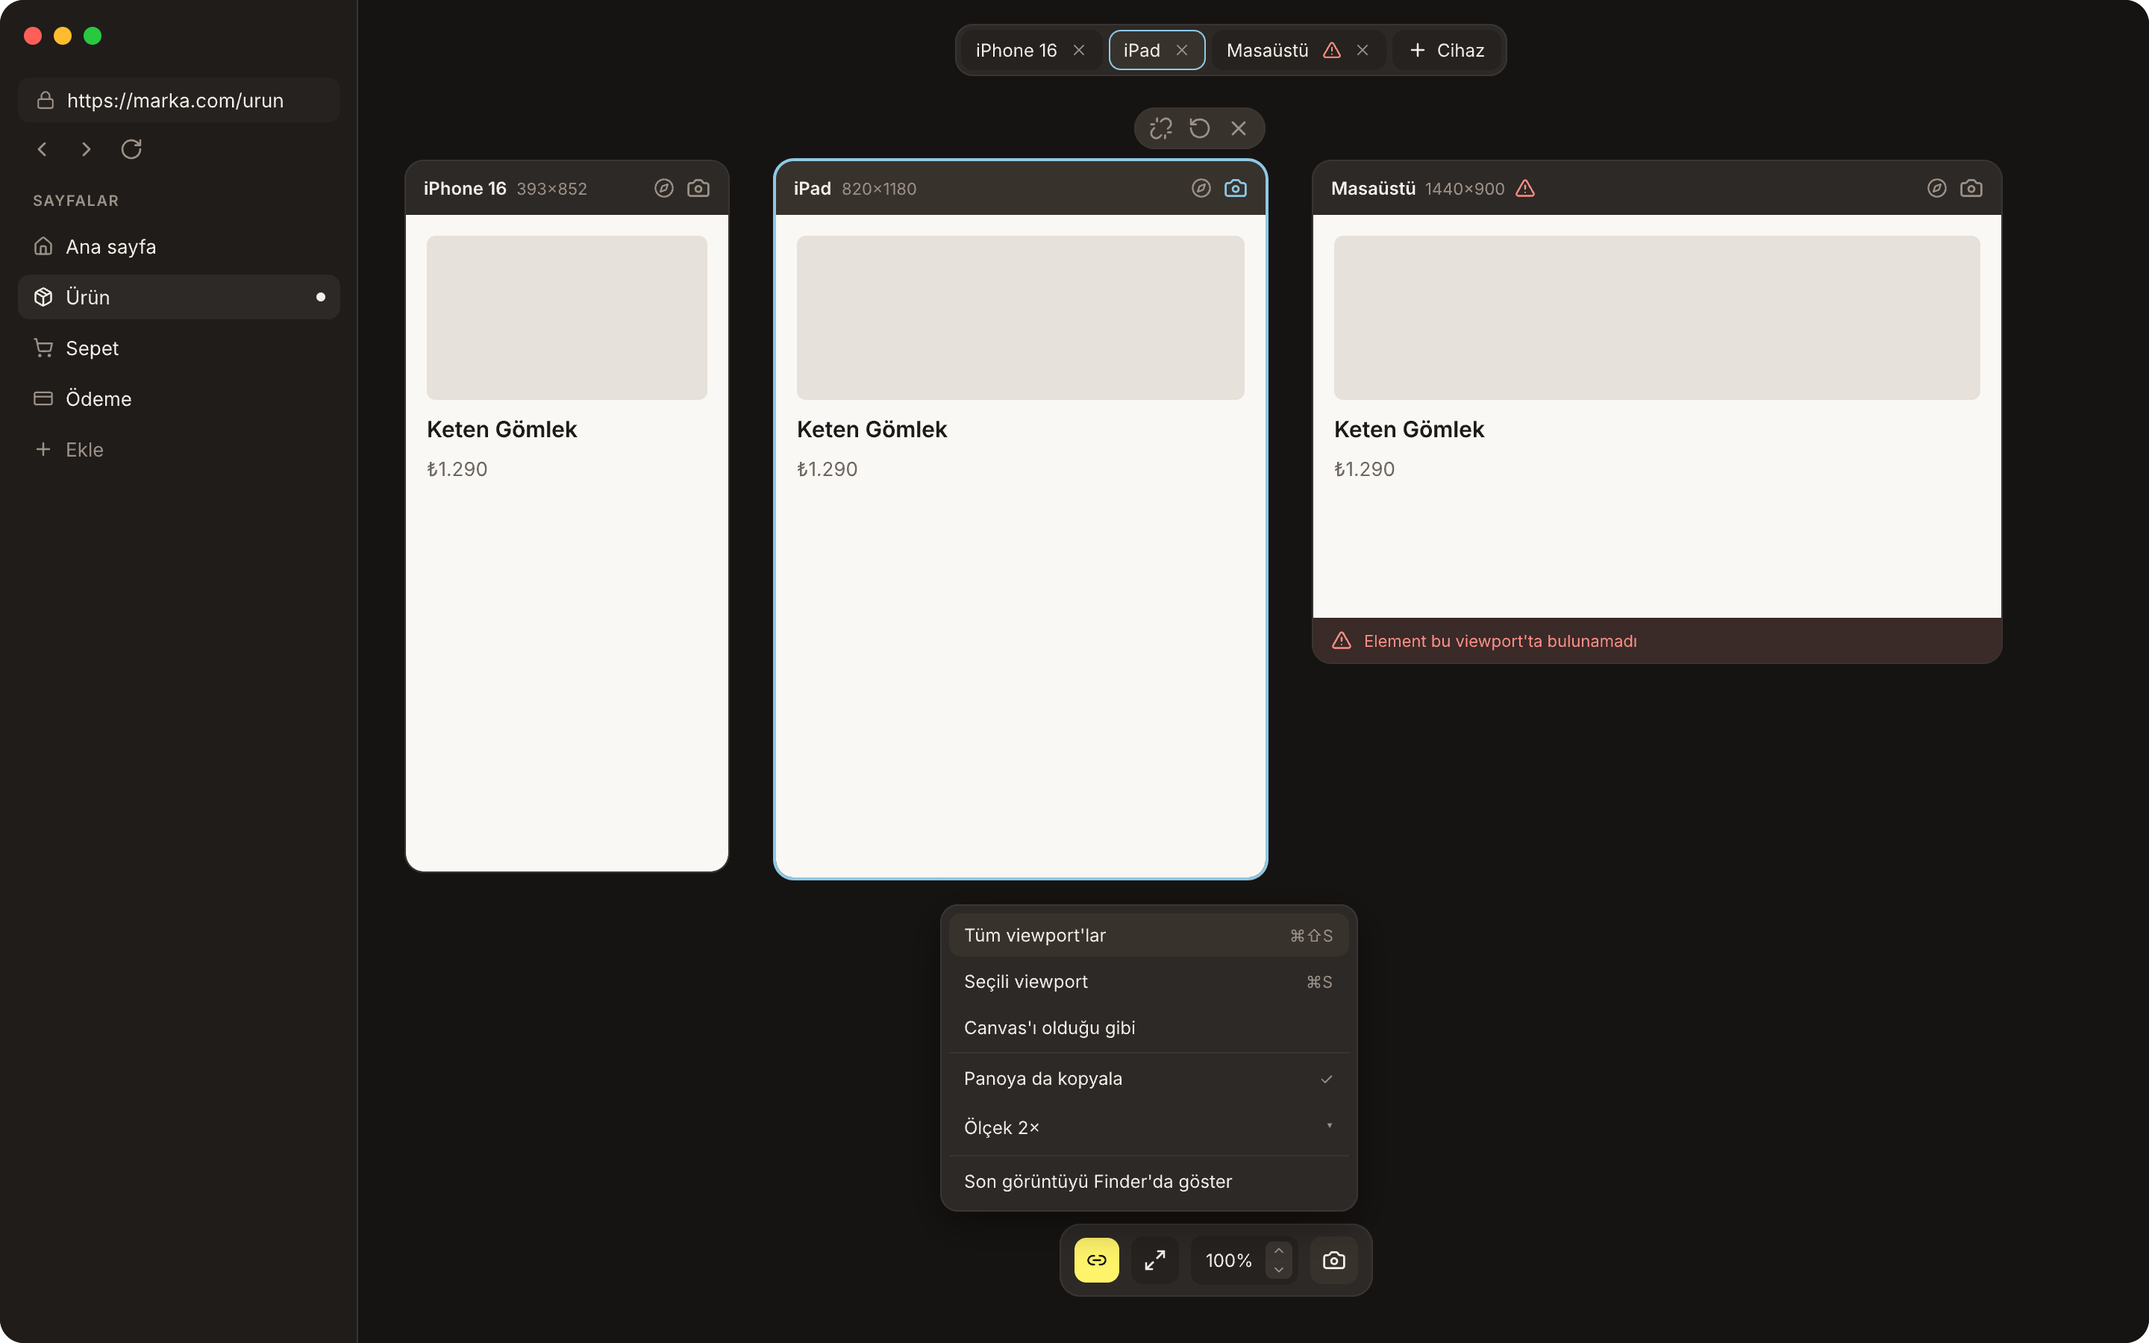
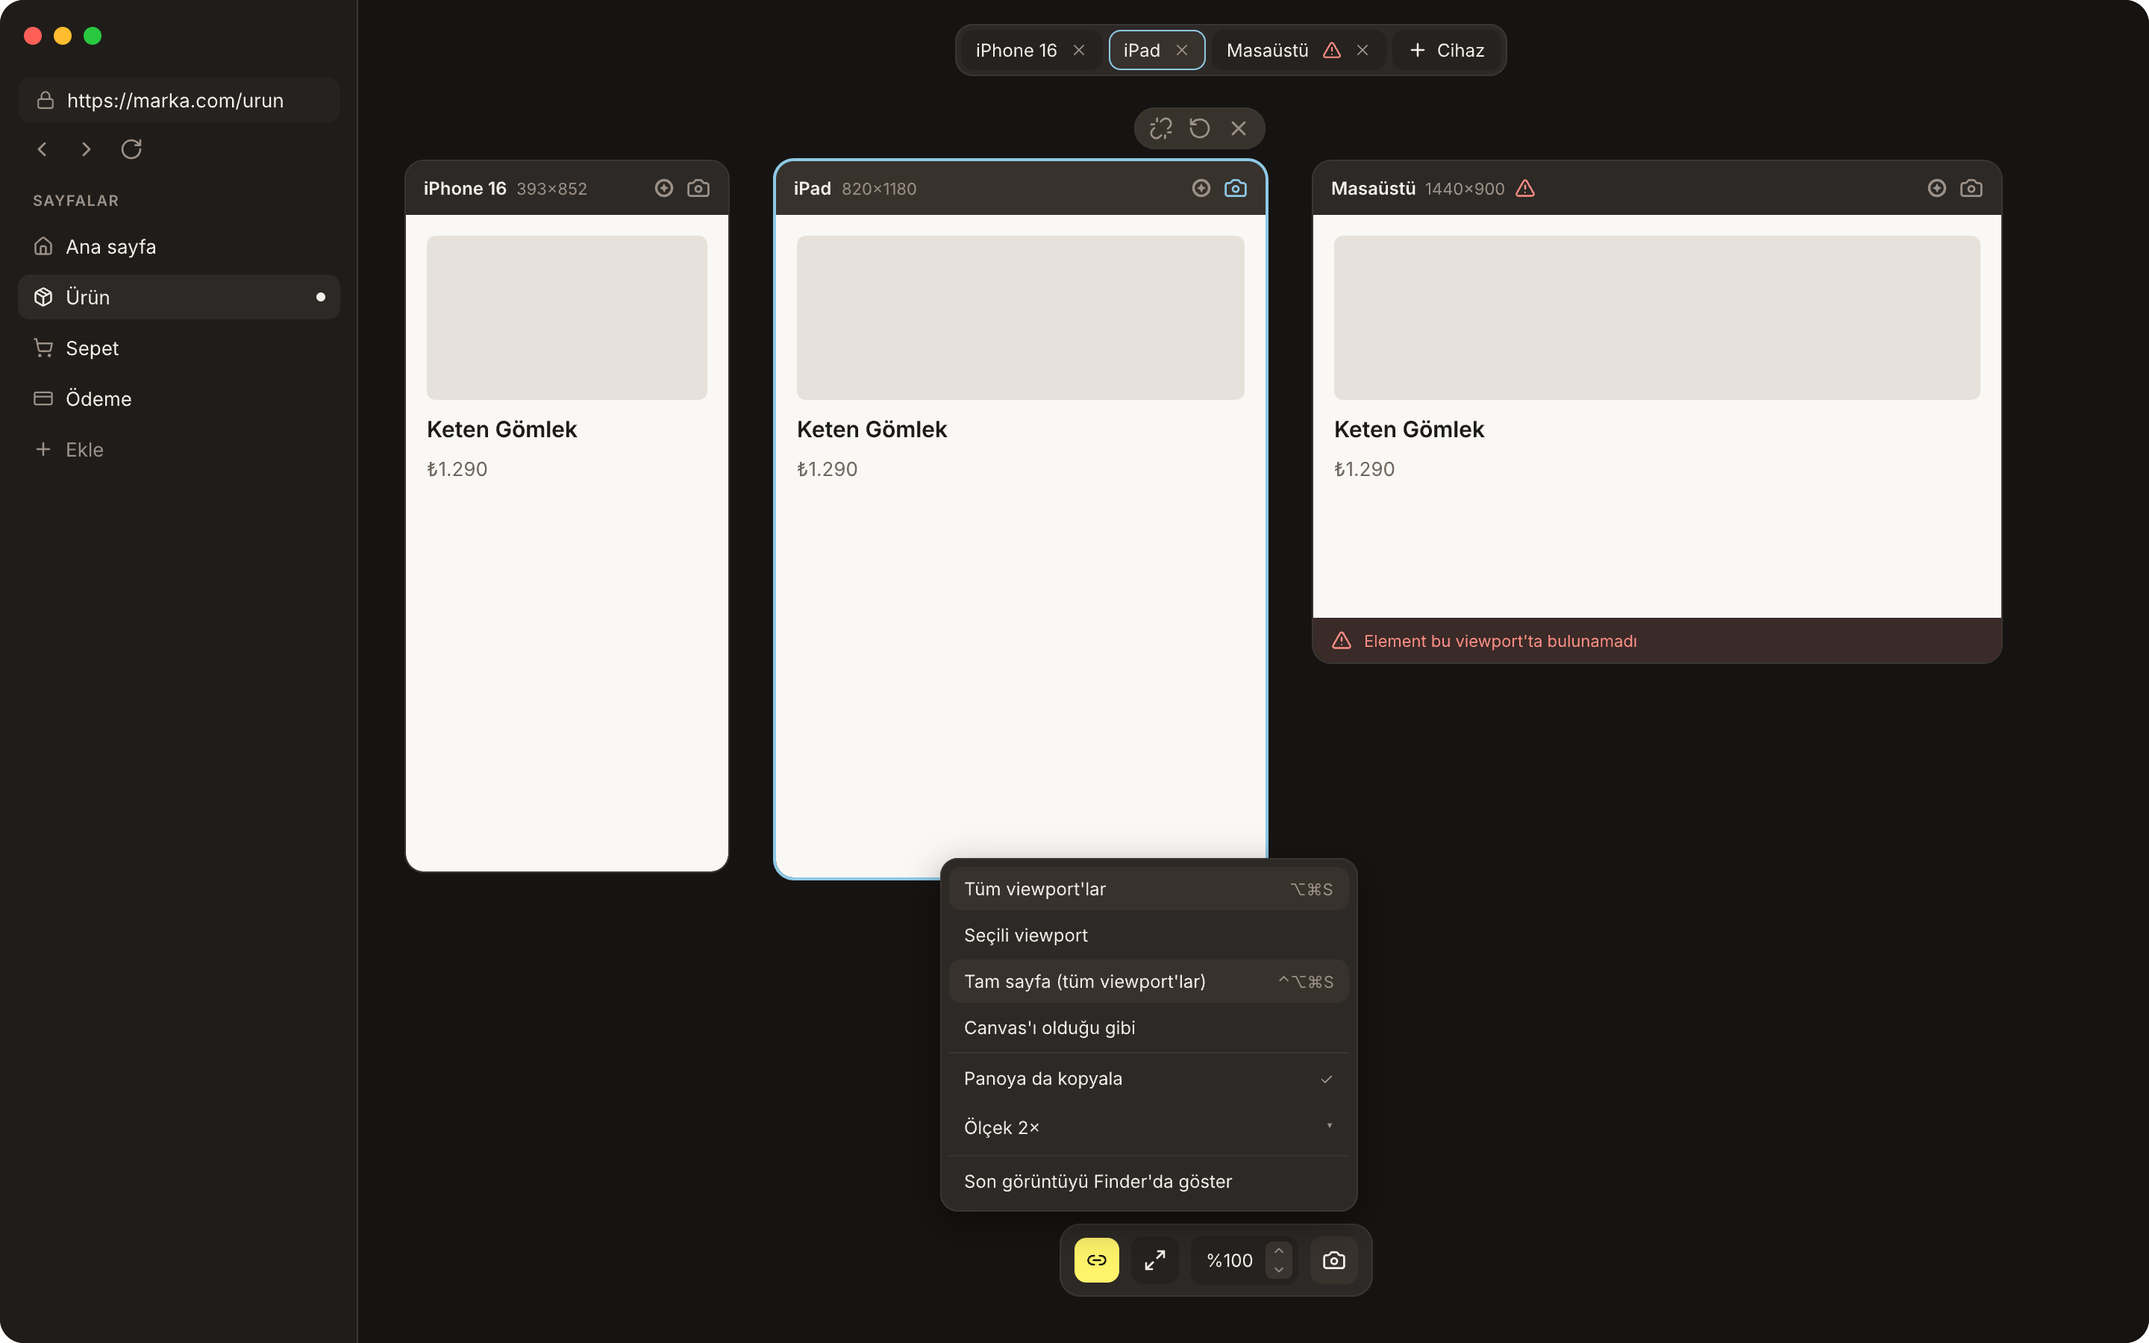
Add shortcut map, card context menu, size editor, sync-off state, Turkish percent

Changed region(s): [[0.4375, 0.6222, 0.625, 0.7467], [0.5625, 0.9333, 0.5938, 0.9644]]

diff --git a/DESIGN.md b/DESIGN.md
@@ -99,7 +99,7 @@ Kullanıcının kaydettiği birim. Bir markanın (mağazanın) tüm kurulumunu t
 │ Ürün   ● │  └──────────────────────────────┘ └──────┘ └────────┘ │
 │ Sepet    │                                                       │
 │ Ödeme    │              ( ✓ Kaydedildi · Finder'da Göster )      │
-│ + Ekle   │       [ Senkron açık ][ Sığdır ][ 100% ][ 📷 ]         │
+│ + Ekle   │       [ 🔗 ][ ⤢ ][ %100 ▴▾ ][ 📷 ]         │
 └──────────┴───────────────────────────────────────────────────────┘
 ```
 
@@ -108,9 +108,12 @@ Kullanıcının kaydettiği birim. Bir markanın (mağazanın) tüm kurulumunu t
 - **Sidebar (220, varsayılan açık):** üstte traffic lights, URL alanı ve geri/ileri/yenile; altında "SAYFALAR" listesi. **URL alanı odaklanınca** altında "SON" menüsü, URL kutusuyla aynı genişlik ve sol hizada, 4 px altında (canvas'a taşmaz): son 5 URL (favicon; adres ortadan kısaltılır; altında ne zaman; ↑↓ ⏎ ile seçilir, yazdıkça süzülür), altta "Geçmişi temizle" ve "Bu sayfayı listeye ekle: ⌘D" ipucu; geçmiş uygulamaya aittir, proje dosyasına girmez. **Sayfa listesi durumları** (`sidebar-states@2x.png`): hover'da satır zemini + sağda kalem ve ⋯; yeniden adlandırma yerinde metin alanı (gök kenar; ⏎ kaydet, Esc iptal); sürükle-bırak'ta satır kalkar (gölge, hafif eğim), hedefte gök ekleme çizgisi; açık URL listede yoksa en altta sarı kenarlı "Bu sayfayı ekle · /yol · ⌘D" satırı; boş durum "Henüz sayfa yok · Açık sayfayı ⌘D ile ekle."; "+ Ekle" her zaman en altta. Kapanınca ışıklar, sidebar düğmesi, nav ve URL canvas'ın üst solunda tek bir yüzen kapsüle taşınır (aynı sırayla), canvas tam genişliği alır.
 - **Cihaz sekmeleri (canvas üstünde yüzen şerit):** açık viewport'lar sırayla; her sekme kartla aynı durumu taşır (lider gök çerçeve, senkron kaçtı mercan üçgen, yükleniyor dönen ikon, snapshot resim ikonu). Sığmayınca şerit kayar (kenarda solma + ok); sağda "+N" çipi gizli cihazların en ciddi durumunu gösterir (hata > lider > yükleniyor > normal: hata mercan kenar + üçgen, lider gök kenar + göz, yükleniyor dönen ikon, normal düz) ve menü açar ("GİZLİ CİHAZLAR"): her gizli cihaz için ad, boyut · motor · durum metni, odakla ve kapat düğmeleri. Etkileşimler aşağıdaki tabloda. Sekme adı asla kısaltılmaz, durum ikonu asla gizlenmez. Sonda "+ Cihaz".
 - **Alt yüzen çubuk (ikon-only):** Senkron (sarı zincir; kapalıyken gri kırık zincir), Sığdır, zoom kontrolü (`Toolbar/ZoomControl`: yüzde metni + sağında dikey mini stepper ▲▼; yüzdeye tık → menü, ▲▼ kademeli zoom, yüzde yatay sürükle → sürekli zoom), ekran görüntüsü. Her ikonun hover'ında koyu tooltip: ad + kısayol. Bildirim kapsülü bu çubuğun üstüne çıkar; menü veya tooltip açıkken gösterilmez.
-- **Ekran görüntüsü menüsü (kamera düğmesi, çubuğun üstüne açılır):** Tüm viewport'lar ⌘⇧S · Seçili viewport ⌘S · Canvas'ı olduğu gibi · — · Panoya da kopyala ✓ · Ölçek 2× ▾ · — · Son görüntüyü Finder'da göster. Kart başlığındaki kamera yalnız o viewport'u alır. Her yakalamadan sonra kapsül: "Kaydedildi ve kopyalandı · Finder'da Göster".
-- **Zoom menüsü (çubuğun üstüne açılır):** Sığdır ⌘1, Seçimi sığdır ⌘2 · 50% / 100% / 200% (geçerli olan işaretli) · Gerçek boyut ⌘0, Yakınlaştır ⌘+, Uzaklaştır ⌘−.
+- **Ekran görüntüsü menüsü (kamera düğmesi, çubuğun üstüne açılır):** Tüm viewport'lar ⌥⌘S · Seçili viewport · Tam sayfa (tüm viewport'lar) ⌃⌥⌘S · Canvas'ı olduğu gibi · — · Panoya da kopyala ✓ · Ölçek 2× ▾ · — · Son görüntüyü Finder'da göster. Kart başlığındaki kamera yalnız o viewport'u alır. Her yakalamadan sonra kapsül: "Kaydedildi ve kopyalandı · Finder'da Göster".
+- **Zoom menüsü (çubuğun üstüne açılır):** Sığdır ⌘1, Seçimi sığdır ⌘2 · %25 / %50 / %100 / %200 (geçerli olan işaretli; yüzde Türkçe yazımla önde: "%100", sistem yerel ayarına göre) · Gerçek boyut ⌘0, Yakınlaştır ⌘+, Uzaklaştır ⌘−.
 - **Viewport kartı:** kompakt tek satır başlık: cihaz adı, boyut, sağda motor ikonu ve kamera düğmesi. Motor yalnızca ikon; hover'da tooltip "WebKit 26 · macOS 26". Sığmazsa gizlenme sırası: önce boyut, sonra ad ortadan kısaltılır; motor ikonu ve kamera asla gizlenmez. Sekmeler motor göstermez; aynı cihaz iki motorda açılırsa sekme adı "iPad · Chromium" olur. Hover'da kapat / döndür / senkrondan çıkar kartın üstünde yüzen şeritte. Durumlar §4'te.
+- **Kart başlığı sağ tık menüsü:** Döndür ⌥⌘R · Boyutu düzenle… · Senkrondan çıkar (kapalıysa "Senkrona kat") · — · Ekran görüntüsü · Tam sayfa ekran görüntüsü · — · Motor › (M4'e kadar pasif, "WebKit 26") · — · Kaldır ⌫ (mercan). Sayfa alanında WebKit'in kendi menüsü kalır.
+- **Boyutu düzenle:** kart başlığının altından açılan popover: Ad, Genişlik ⇄ Yükseklik (ortadaki düğme değiştirir), sınır ipucu "200–3840 × 200–4320 px" (dışındaysa alan mercan kenar, Kaydet pasif), İptal / Kaydet (sarı). Yeni kart için cihaz seçicinin "Özel boyut" satırı aynı sınırları kullanır.
+- **Senkron kapalı viewport:** başlıkta boyutun yanında gri ‖ işareti (ipucu "Bu viewport için senkron kapalı"), içerik değişmez; hover şeridindeki ilk düğme kırık zincirden zincire döner ("Senkrona kat"). Projeye kaydedilir. Frame: `Card Actions`.
 - **Lider göstergesi:** imlecin üstünde olduğu viewport gök çerçeve ve parlak başlıkla vurgulanır; sekmesi de aynı renkte.
 - **"Senkron kaçtı" göstergesi:** başlıkta mercan üçgen, kartın altında "Element bu viewport'ta bulunamadı" notu; sekmede de üçgen.
 - Inspector şimdilik yok; gelince seçeneklere bakılır. Geliştirici paneli §3.4.
@@ -140,21 +143,40 @@ Kullanıcının kaydettiği birim. Bir markanın (mağazanın) tüm kurulumunu t
 | Satırı sürükle | Satır kalkar, hedefte gök çizgi; bırakınca sıralanır ve proje kaydedilir | 150 ms kalkış, 200 ms yerleşme |
 | ⌘D | Açık URL sayfa listesine eklenir; "Bu sayfayı ekle" satırı kaybolur | 150 ms |
 | Kamera düğmesi | Ekran görüntüsü menüsü açılır; kart kamerası doğrudan o viewport'u alır | 120 ms fade + 4 px |
-| Sidebar düğmesi / ⌘⇧S | Sidebar kapanır; ışıklar + nav + URL üst sol kapsüle taşınır | Sidebar 200 ms genişlik; kapsül 150 ms fade |
-| "+ Cihaz" / ⌘N | Cihaz seçici popover açılır, arama odaklı | 120 ms fade + 4 px |
+| Sidebar düğmesi / ⌃⌘S | Sidebar kapanır; ışıklar + nav + URL üst sol kapsüle taşınır | Sidebar 200 ms genişlik; kapsül 150 ms fade |
+| "+ Cihaz" / ⌥⌘N | Cihaz seçici popover açılır, arama odaklı | 120 ms fade + 4 px |
 | Seçicide satıra tık | Cihaz canvas sonuna eklenir, sekme belirir, tik gelir; popover **açık kalır**; canvas ⌘1 ile sığdırılır | Kart 200 ms belirir; canvas 250 ms |
 | Seçicide ekli satıra tık | Canvas o karta kayar (çıkarmaz) | 250 ms |
 | Aramaya "W×H" yaz + ⏎ | Özel boyut eklenir | — |
 | Esc / dışarı tık | Popover kapanır | 100 ms |
+| Kart başlığına sağ tık | Kart menüsü imleçte | 120 ms fade |
+| Boyutu düzenle… | Popover başlığın altından; Kaydet → kart yeni boyuta animasyonla geçer, canvas yeniden dizilir | Popover 120 ms; kart 200 ms |
+| Senkrondan çıkar / Senkrona kat | Kart ‖ işareti alır / bırakır; o viewport olay almaz | 150 ms |
 
 Kapat, döndür, senkrondan çıkar ve ekran görüntüsü eylemleri menü çubuğunda da bulunur (hover'a gizlenenler klavye ve menüden ulaşılabilir kalır).
 
+
+### 3.2.1 Menü çubuğu ve kısayollar
+
+Tek kaynak bu tablo; diğer bölümlerdeki kısayollar buna uyar. macOS standartları korunur (⌘N yeni belge, ⌘S kaydet, ⌃⌘S sidebar, ⌘L adres, ⌘, ayarlar). Her toolbar, ray ve kart eylemi menüde de bulunur. Frame: `Shortcut Map · Menü çubuğu` (00 bölümü).
+
+| Menü | Madde → kısayol |
+|---|---|
+| Viewportix | Hakkında · Ayarlar… ⌘, · Gizle ⌘H · Çıkış ⌘Q |
+| Dosya | Yeni Proje ⌘N · Aç… ⌘O · Son Kullanılanlar › · Kapat ⌘W · Kaydet ⌘S · Çoğalt ⇧⌘S · Yeniden Adlandır… · Giriş Ekranı ⇧⌘0 · Ekran Görüntüsü Al ⌥⌘S · Tam Sayfa Ekran Görüntüsü ⌃⌥⌘S |
+| Görünüm | Sidebar'ı Gizle ⌃⌘S · Rayı Gizle ⌥⌘0 · Yakınlaştır ⌘+ · Uzaklaştır ⌘− · Gerçek Boyut ⌘0 · Sığdır ⌘1 · Seçimi Sığdır ⌘2 · Farklar ⌥⌘1 · Senkron Kaydı ⌥⌘2 · Arka Plandaki Medyayı Duraklat · Tam Ekran ⌃⌘F |
+| Gezinme | Geri ⌘[ · İleri ⌘] · Yenile ⌘R · Adres Çubuğu ⌘L · Bu Sayfayı Listeye Ekle ⌘D · Sonraki Sayfa ⇧⌘] · Önceki Sayfa ⇧⌘[ |
+| Viewport | Cihaz Ekle… ⌥⌘N · Döndür ⌥⌘R · Boyutu Düzenle… · Senkrondan Çıkar · Kaldır ⌫ · Senkron Açık ⇧⌘L · Sonraki Viewport ⌃⇥ · Önceki Viewport ⌃⇧⇥ · Seçimi Kaldır Esc |
+
+Bağlama özel (odak panelde/listede): Farklar J/K, A Kabul, I Yoksay, T Takip et, ⏎ Göster · Senkron ↑↓, ⏎ göster, R yeniden dene · Sayfa listesi ⏎ aç, çift tık yeniden adlandır, ⌫ kaldır, ⌥⌘↑/↓ taşı · Popover ↑↓ ⏎, Esc · Zoom yüzdesi yatay sürükle. Giriş ekranında ⌘D kartı çoğaltır (Finder gibi; proje penceresinde sayfa ekler).
+
+Düzeltilen çakışmalar: ⌘S (seçili viewport ekran görüntüsü → kaldırıldı, Kaydet'e ait), ⇧⌘S (sidebar ve tüm ekran görüntüsü → sidebar ⌃⌘S, ekran görüntüsü ⌥⌘S), ⌘N ("+ Cihaz" → ⌥⌘N), ⌥⌘↑/↓ (sayfa geçişi → ⇧⌘]/[ ).
 
 ### 3.3 Sağ ray ve Ayarlar paneli
 
 Proje penceresinin sağ kenarında 44 px **ray** (varsayılan açık; alttaki düğmeyle tamamen gizlenir, tercih hatırlanır; gizliyken ⌘, ya da ilgili kısayol paneli açar): ⚙ Ayarlar, Cihazlar, MCP, Hesap; ayırıcı; Farklar, Senkron (M5); altta daralt. Rayın ikonuna tıklayınca ilgili panel açılır. **Varsayım (kullanımda doğrulanacak):** Ayarlar / Cihazlar / MCP / Hesap panelleri canvas'ın **üstüne kayar** (340 px, gölgeli, canvas yerinden oynamaz); Farklar ve Senkron panelleri canvas'ı **iter** (300 px, uzun süre açık kalır). Ayarlar panelinin başlığında yalnızca ✕; Farklar ve Senkron panellerinde ayrıca "pencereye çıkar" (⧉, ikinci ekrana almak için). ⌘, ayarları açar. Giriş ekranında ray yok; ⚙ düğmesi ve ⌘, aynı paneli açar (§3.1). Ayrı ayarlar penceresi yok.
 
-**Ayarlar paneli içeriği** (`window-project-settings-panel@2x.png`: ray + üstüne kayan panel): üstte sekme çipleri Genel · Cihazlar · MCP · Hesap, arama; GÖRÜNÜM (Tema Sistem / Koyu / Açık; Dil), PROJE (Varsayılan şablon; Senkron açık başlasın; Taslakları sakla), EKRAN GÖRÜNTÜSÜ (Klasör; Panoya da kopyala; Ölçek 1× / 2×), **BU PROJE** (Cihazlar (n) → Cihazlar sekmesi; Motor). Sekme içerikleri:
+**Ayarlar paneli içeriği** (`window-project-settings-panel@2x.png`: ray + üstüne kayan panel): üstte sekme çipleri Genel · Cihazlar · MCP · Hesap, arama; GÖRÜNÜM (Tema Sistem / Koyu / Açık; Dil), PROJE (Varsayılan şablon; Senkron açık başlasın; Taslakları sakla), EKRAN GÖRÜNTÜSÜ (Klasör; Panoya da kopyala; Ölçek 1× / 2×); PROJE altında ayrıca "Arka plandaki viewport'larda medyayı duraklat" (varsayılan kapalı; Görünüm menüsünde de), **BU PROJE** (Cihazlar (n) → Cihazlar sekmesi; Motor). Sekme içerikleri:
 - **Cihazlar:** cihaz yönetimi; "Cihazları yönet…" buraya açılır. Arama, "İçe aktar…", "+ Cihaz"; tablo Ad (özel cihazda "özel"), Tür, Boyut, Ölçek, Seçicide (toggle; kapalıysa listede kalır, "+ Cihaz" menüsünde görünmez), ⋯. Yerleşik cihazlar silinemez, gizlenir; "Seçicide" kapatmak açık projelerdeki kartları etkilemez. Özel cihazlar uygulamayla saklanır.
 - **MCP** (M7): durum (nokta + "stdio · 2 istemci · 14 araç"; Durdur/Başlat), Taşıma stdio / HTTP, Komut + Kopyala, İzinler (Ekran görüntüsü alma, Gezinme ve tıklama, DOM diff okuma, Proje dosyası yazma — varsayılan kapalı), Bağlı istemciler (ad, son istek, Bağlantıyı kes).
 - **Hesap:** avatar, ad, e-posta, Çıkış yap; Takım; Lisans ("Dahili"; iş modeli sonra); Güncelleme.
@@ -210,6 +232,7 @@ Sağ raydan açılır, canvas'ı iter (300 px). Tasarım ilkesi: **sakin ama tek
 | Viewport kartı: çerçevesiz (cihaz çerçevesi yok); kompakt tek satır başlık: ad, boyut, sağda motor ve kamera düğmesi (kamera başlıkta hep görünür, varsayım); hover'da kapat / döndür / senkrondan çıkar eylemleri kartın üstünde yüzen küçük bir şeritte (başlık değişmez, motor ve boyut her an görünür) | 2026-10-10 |
 | Kart durumu `loading`: başlık altında 3 px açık krem ilerleme çizgisi + kamera yerine dönen yükleme ikonu (iskelet veya ortada kutu yok) | 2026-10-10 |
 | Kart durumu `selected` (S3, çift halka): kartın dışında 3 px boşlukla 1.5 px krem halka (`ink/primary`); kartın kendi çizgisi değişmez. Lider ile bağımsız: içteki çizgi "lider mi?" (gök 2 px), dıştaki halka "seçili mi?" sorusunu yanıtlar; ikisi aynı anda görünebilir. Seçili kart imleç gidince kalır; sekmeye tık, "+N"/cihaz seçicide ekli satıra tık ve Farklar › Göster seçer; ⌘S, ⌘2, kapat/döndür kısayollarının hedefidir. S0 (2 px krem) lider ile çakıştığı için, S1 tutamaç ve S2 boyut etiketi ek öğe gerektirdiği için reddedildi | 2026-10-10 |
+| Kısayol haritası tek tablo (§3.2.1): macOS standartları korunur, çakışmalar düzeltildi; zoom yüzdesi Türkçe yazımla "%100"; kart sağ tık menüsü, boyut düzenleme popover'ı ve "senkron kapalı" durumu (gri ‖); medya duraklatma Ayarlar › Proje | 2026-10-10 |
 | ~~Toolbar iki satır (üstte nav+URL+senkron, altta cihaz sekmeleri + zoom)~~ — yerini aldı, aşağıya bak | 2026-10-10 |
 | Proje penceresi düzeni (B2): üst çubuk yok; URL ve nav sidebar'ın tepesinde; cihaz sekmeleri canvas üstünde yüzen şerit; senkron/sığdır/zoom/ekran görüntüsü alt yüzen çubukta; sidebar varsayılan açık (220), kapanınca ışıklar+nav+URL üst sol kapsüle taşınır; inspector sonra. Gerekçe: araştırmada zoom/sığdır hiçbir canvas aracında üst çubukta değil; yüzen paneller (Figma UI3, Sketch) geri alındı, yalnızca alt araç çubuğu kaldı; cihaz sekmeleri çoklu önizlemede canvas'ı tekrarlar, bu yüzden durum taşıyarak değer kazanır | 2026-10-10 |
 | Cihaz sekmeleri durum taşır (lider/senkron kaçtı/yükleniyor/snapshot); taşmada kaydırılabilir şerit + "+N" durum çipi + gizli cihaz menüsü; ad kısaltılmaz. İkon-only sekmeler reddedildi (hata hangi cihazda, tek bakışta okunmalı) | 2026-10-10 |
